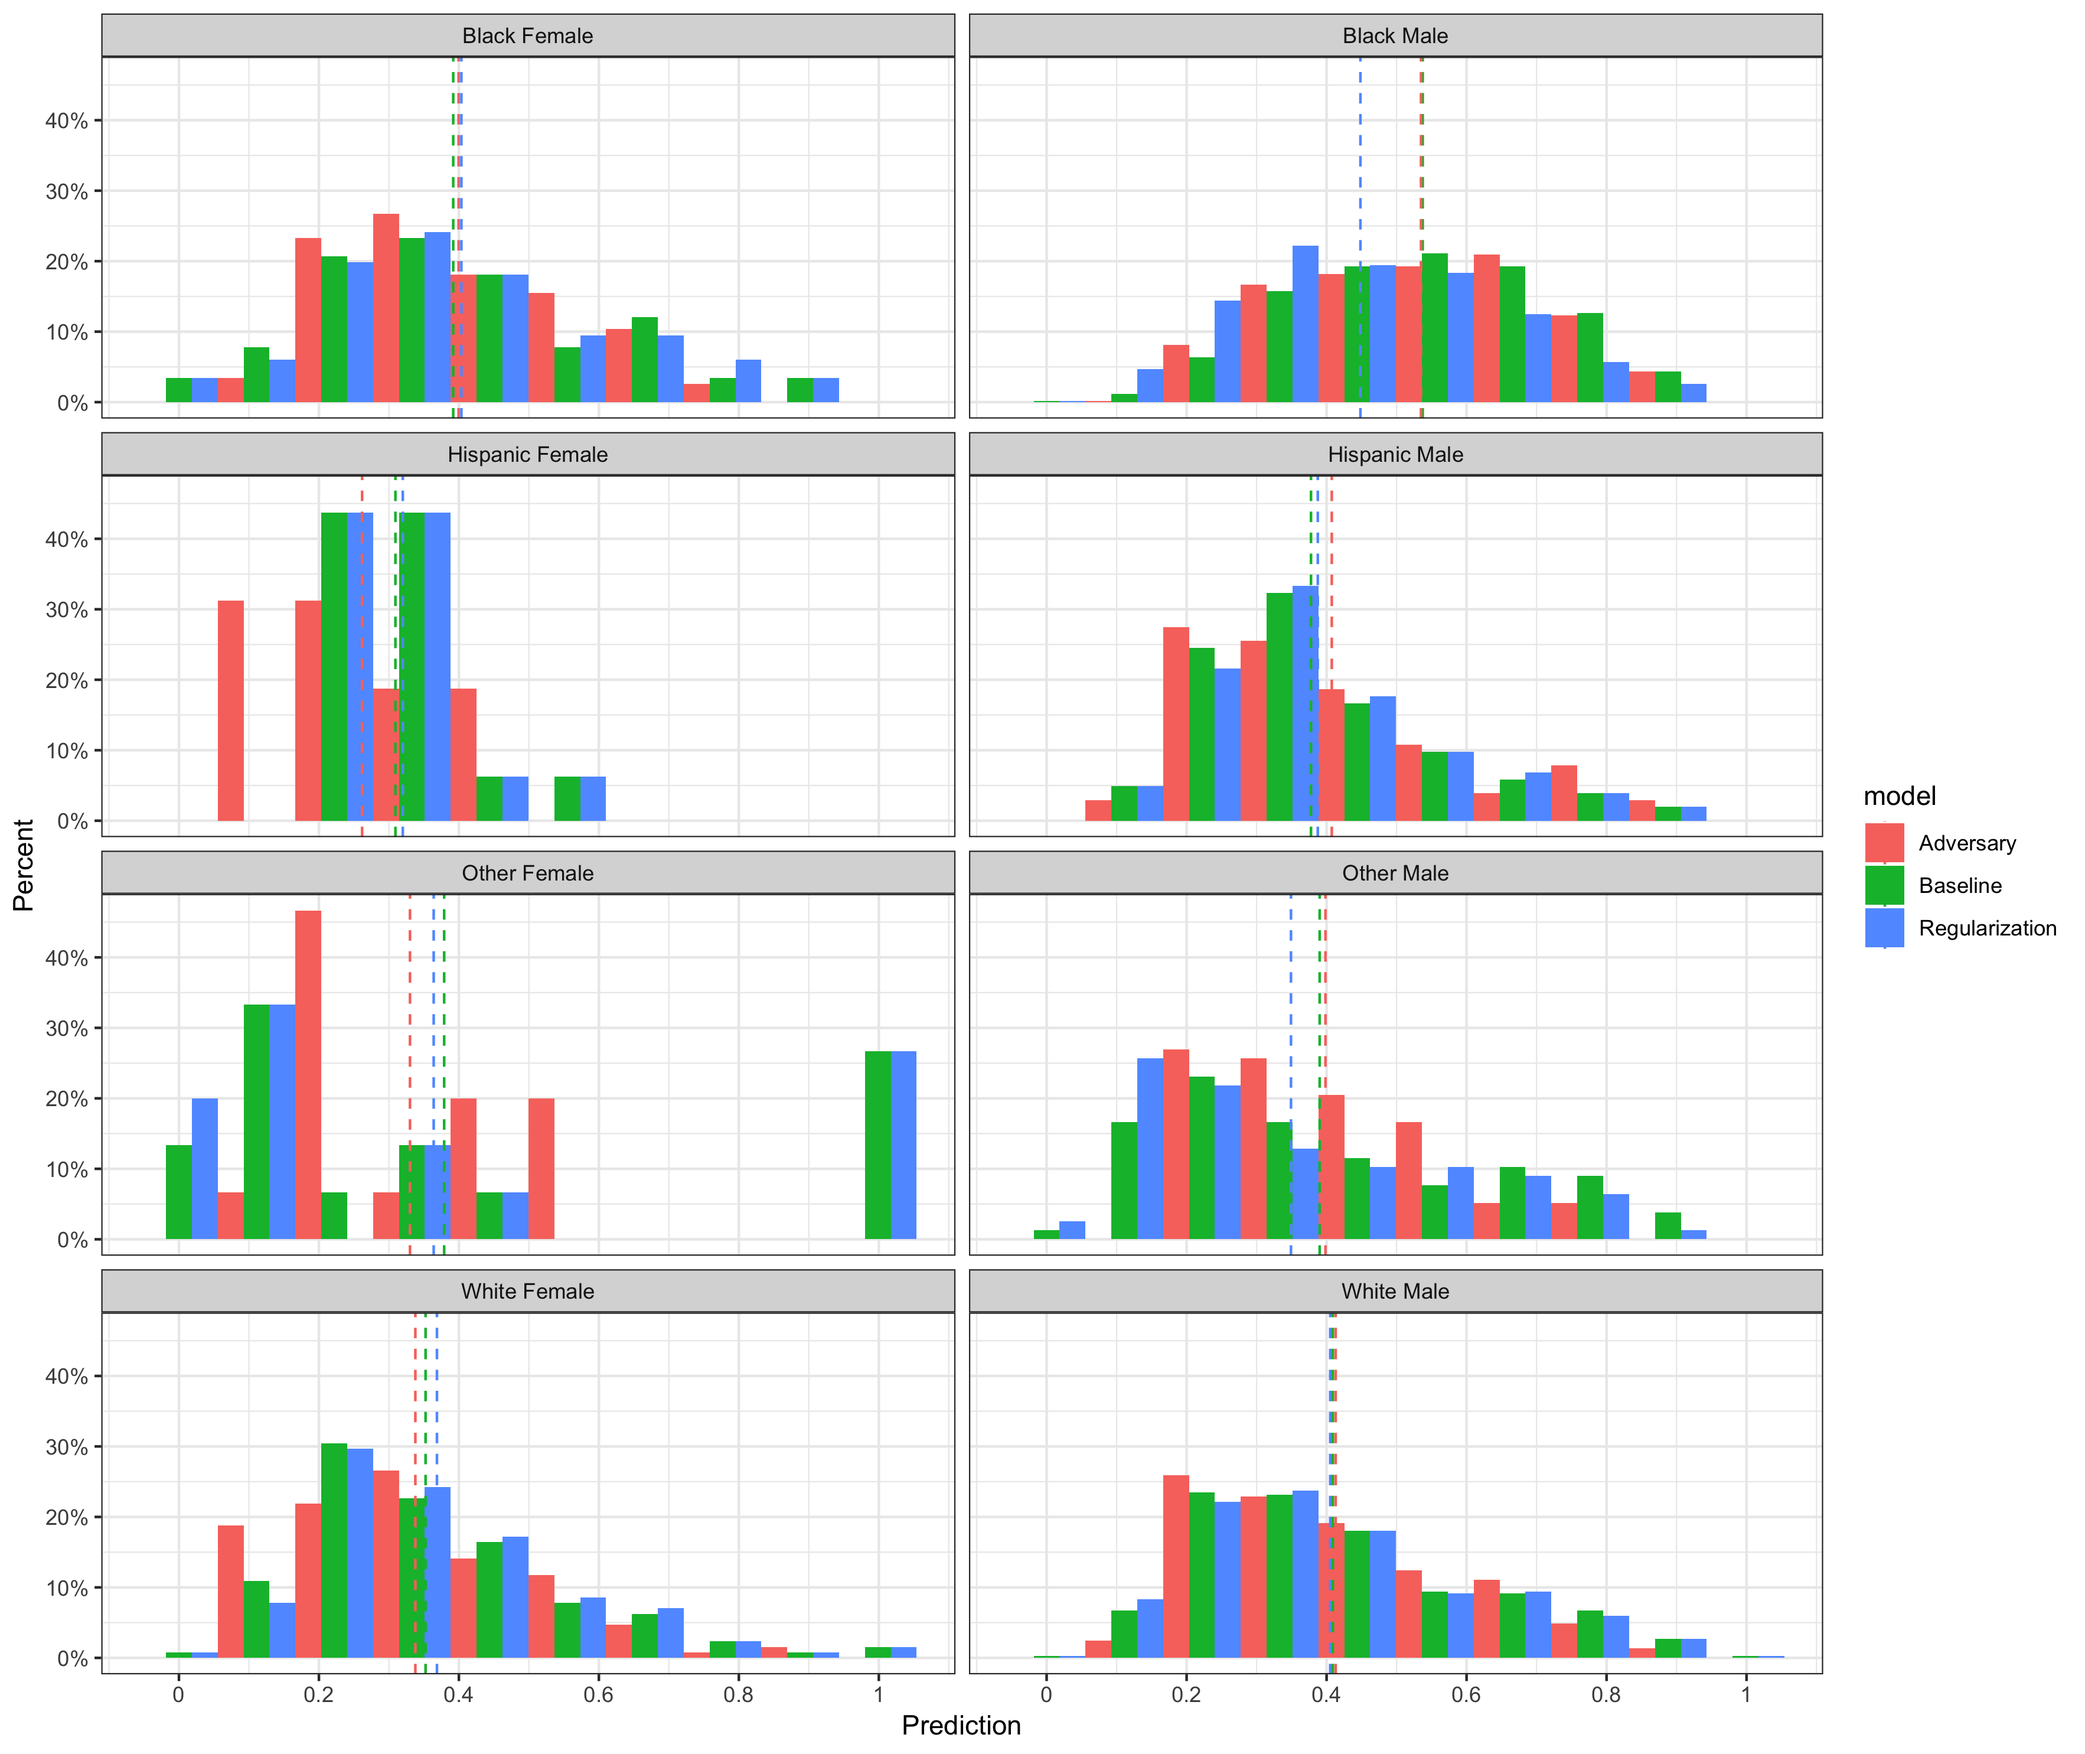
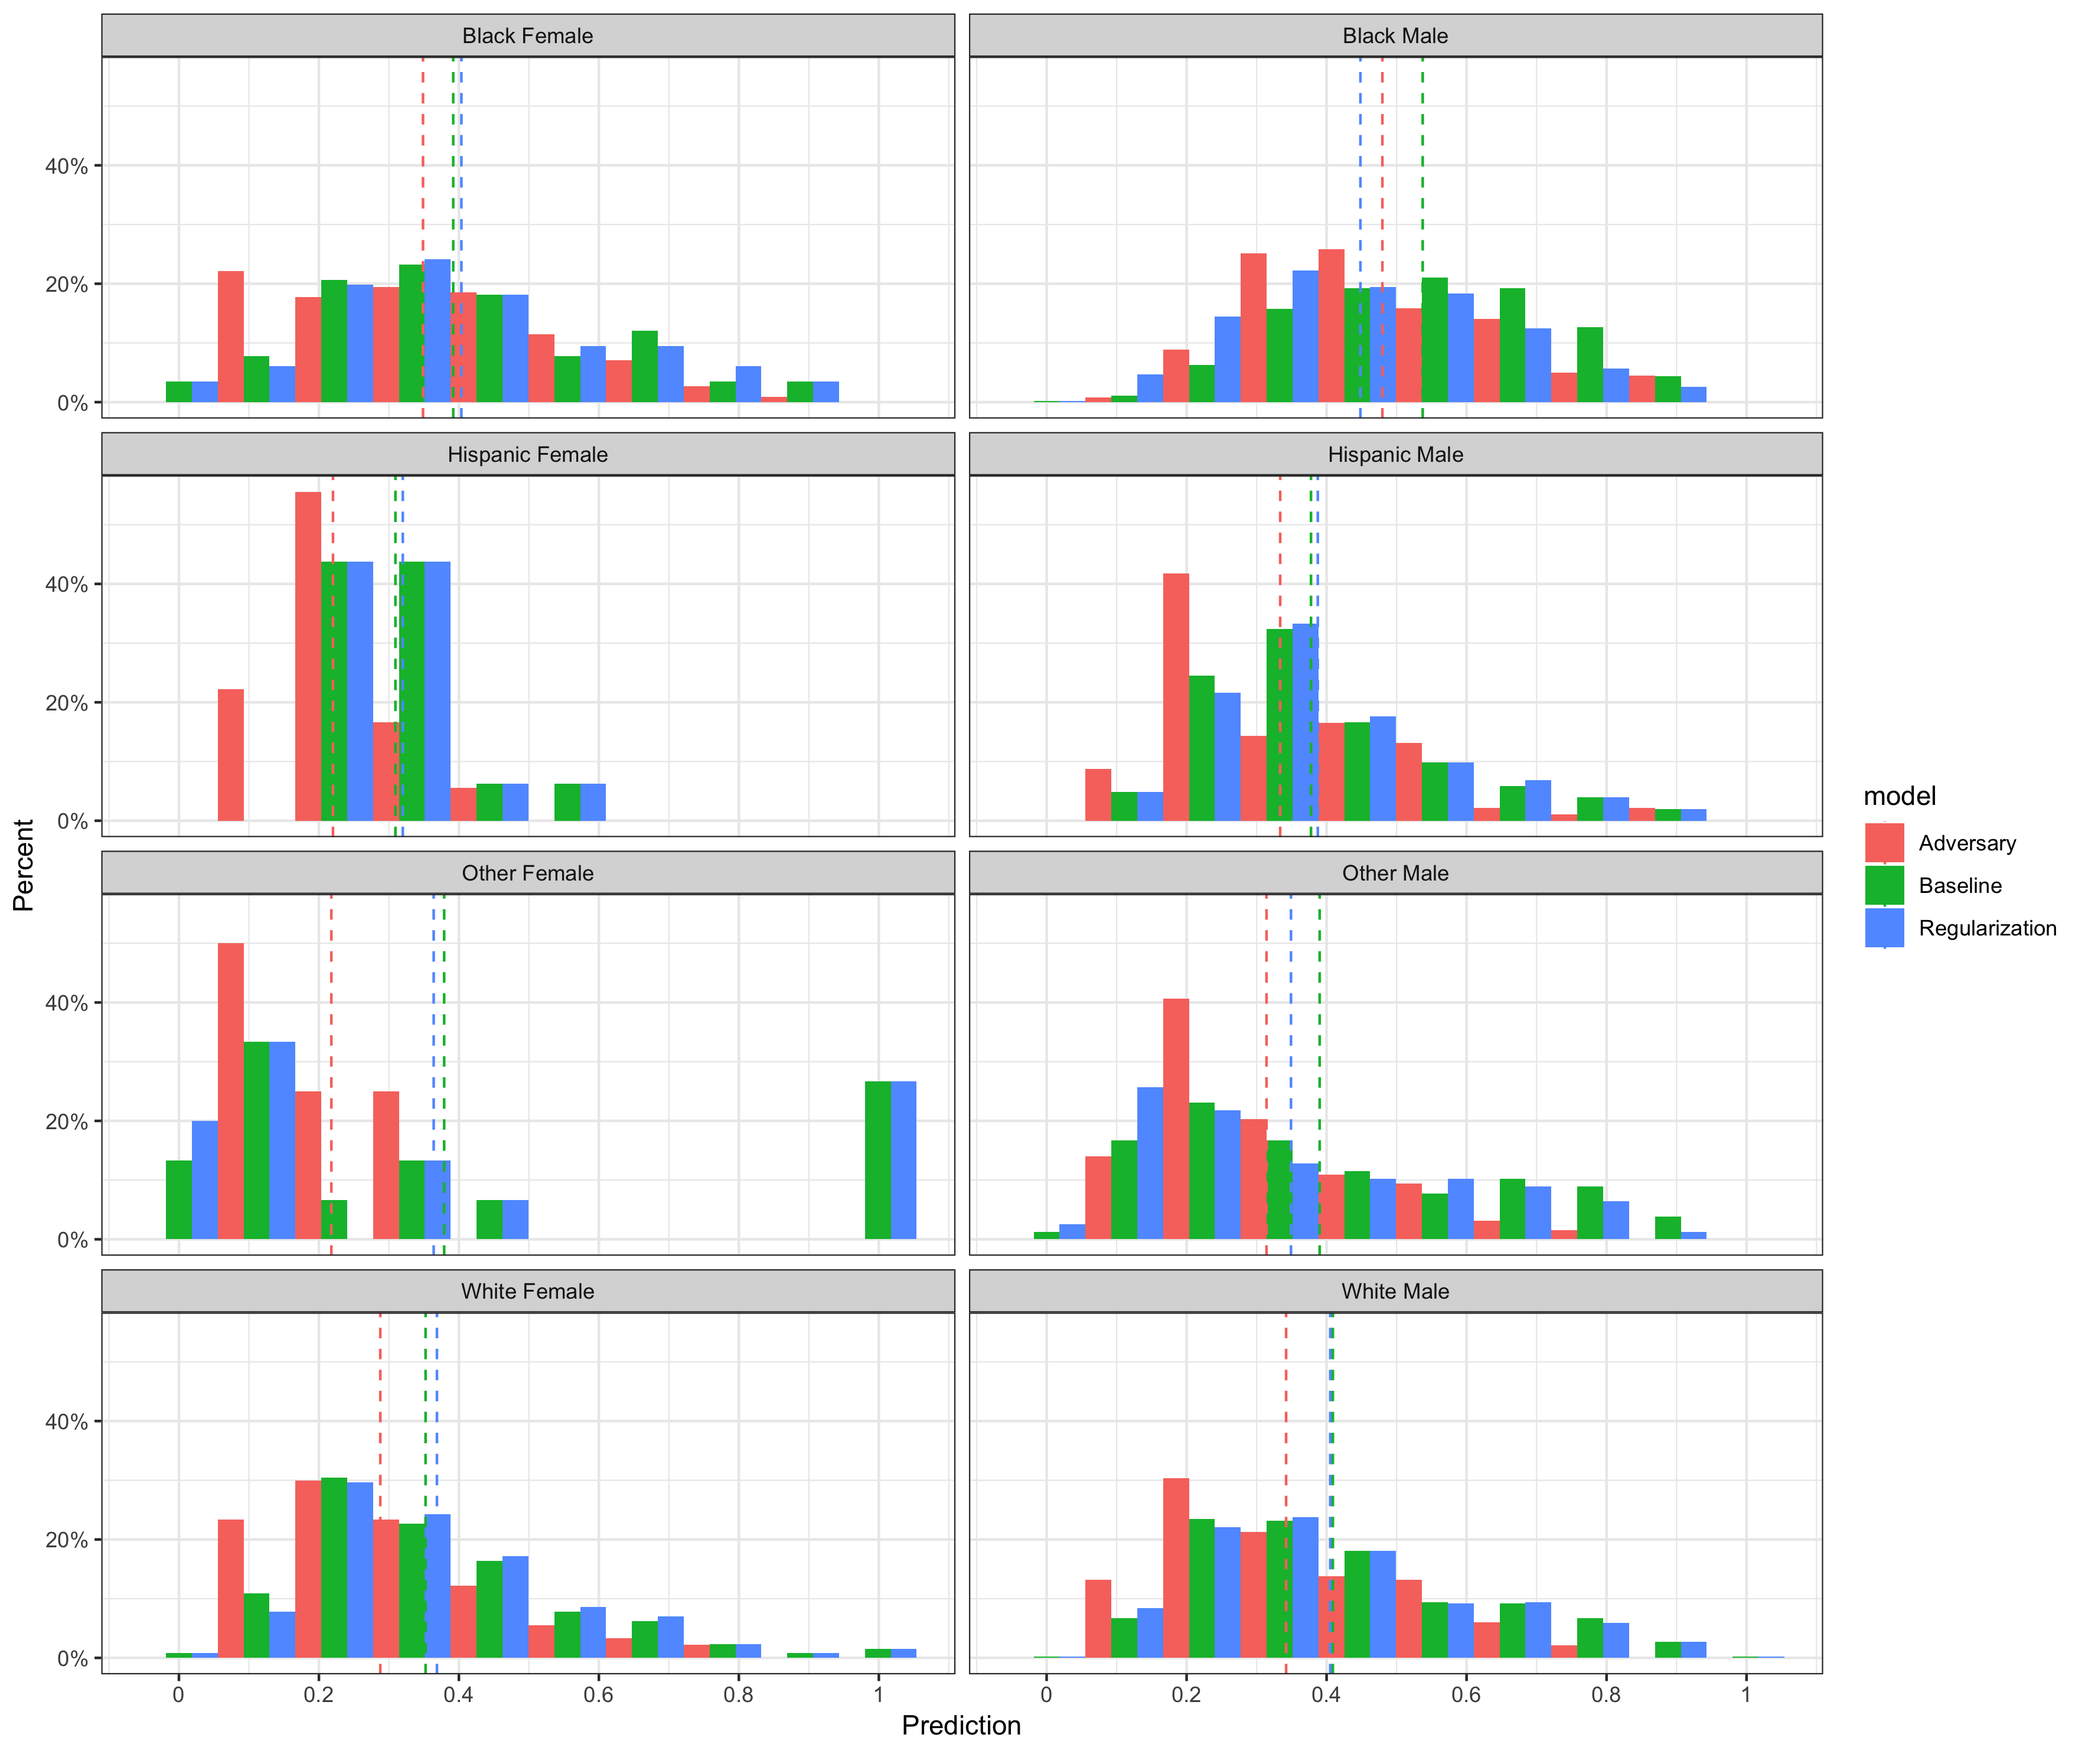
changes to prejudice remover and visualizations for final report

diff --git a/prejudice_remover.py b/prejudice_remover.py
@@ -12,6 +12,7 @@ def fairness_metrics(classified_metric, log=False): # prints instead of return i
     TPR = classified_metric.true_positive_rate()
     TNR = classified_metric.true_negative_rate()
     bal_acc = np.round(0.5*(TPR+TNR),4)
+    # calculate rest of metrics
     dip = np.round((1/classified_metric.disparate_impact() - 1),4)
     aod = np.round(classified_metric.average_odds_difference(),4)
     spd = np.round(classified_metric.statistical_parity_difference(),4)
@@ -128,7 +129,13 @@ Xy_df['sensitive'] = list(map(lambda x: rs_dict[tuple(x)], Xy_df[['race','sex']]
 Xy_df.groupby('sensitive').count()[['y']] # count of each class
 Xy_df.groupby('sensitive').mean()[['y']] # mean of each class
 yc_means = Xy_df.groupby('c_charge_desc_id').mean()[['y']] # mean of each class
-Xy_df = pd.merge(Xy_df, yc_means, left_on='c_charge_desc_id', right_on='c_charge_desc_id', how='outer', suffixes=('', '_charge_mean'))
+ycs_means = Xy_df.groupby(['c_charge_desc_id','sensitive']).mean()[['y']]
+Xy_df = pd.merge(
+    Xy_df, yc_means, left_on='c_charge_desc_id',
+    right_on='c_charge_desc_id', how='outer', suffixes=('', '_charge_mean'))
+Xy_df = pd.merge(
+    Xy_df, ycs_means, left_on=['c_charge_desc_id','sensitive'], right_on=['c_charge_desc_id','sensitive'], how='outer', suffixes=('', '_charge_sensitive_mean')
+)
 class_counts = np.array(Xy_df.groupby('sensitive').count()['y'])
 class_weights = class_counts / np.sum(class_counts)
 # replace charge cluster with one-hot-encoding
@@ -162,16 +169,16 @@ for i in range(len(etas)):
 import matplotlib.pyplot as plt
 aam_arr = metric_arr[:,0,:] # all African-American male data
 metric_avg_arr = get_metric_avg(metric_arr, etas, class_weights)
-plot_results(aam_arr, etas, 'Metrics (African-American Male)')
+#plot_results(aam_arr, etas, 'Metrics (African-American Male)')
 plot_results(metric_avg_arr, etas, 'Metrics (Weighted Average, All Classes)')
 
 # save some preds
-save_test_preds(train_dataset, test_dataset, 'reg', eta=100)
+save_test_preds(train_dataset, test_dataset, 'reg', eta=50)
 save_test_preds(train_dataset, test_dataset, 'baseline', eta=0)
 # save test results over eta
 
 save_test_metrics(aam_arr, etas, 'blackmale')
 save_test_metrics(metric_avg_arr, etas, 'average')
-save_test_metrics(metric_avg_arr, etas, 'average-old')
+#save_test_metrics(metric_avg_arr, etas, 'average-old')
 
 # save matrix
